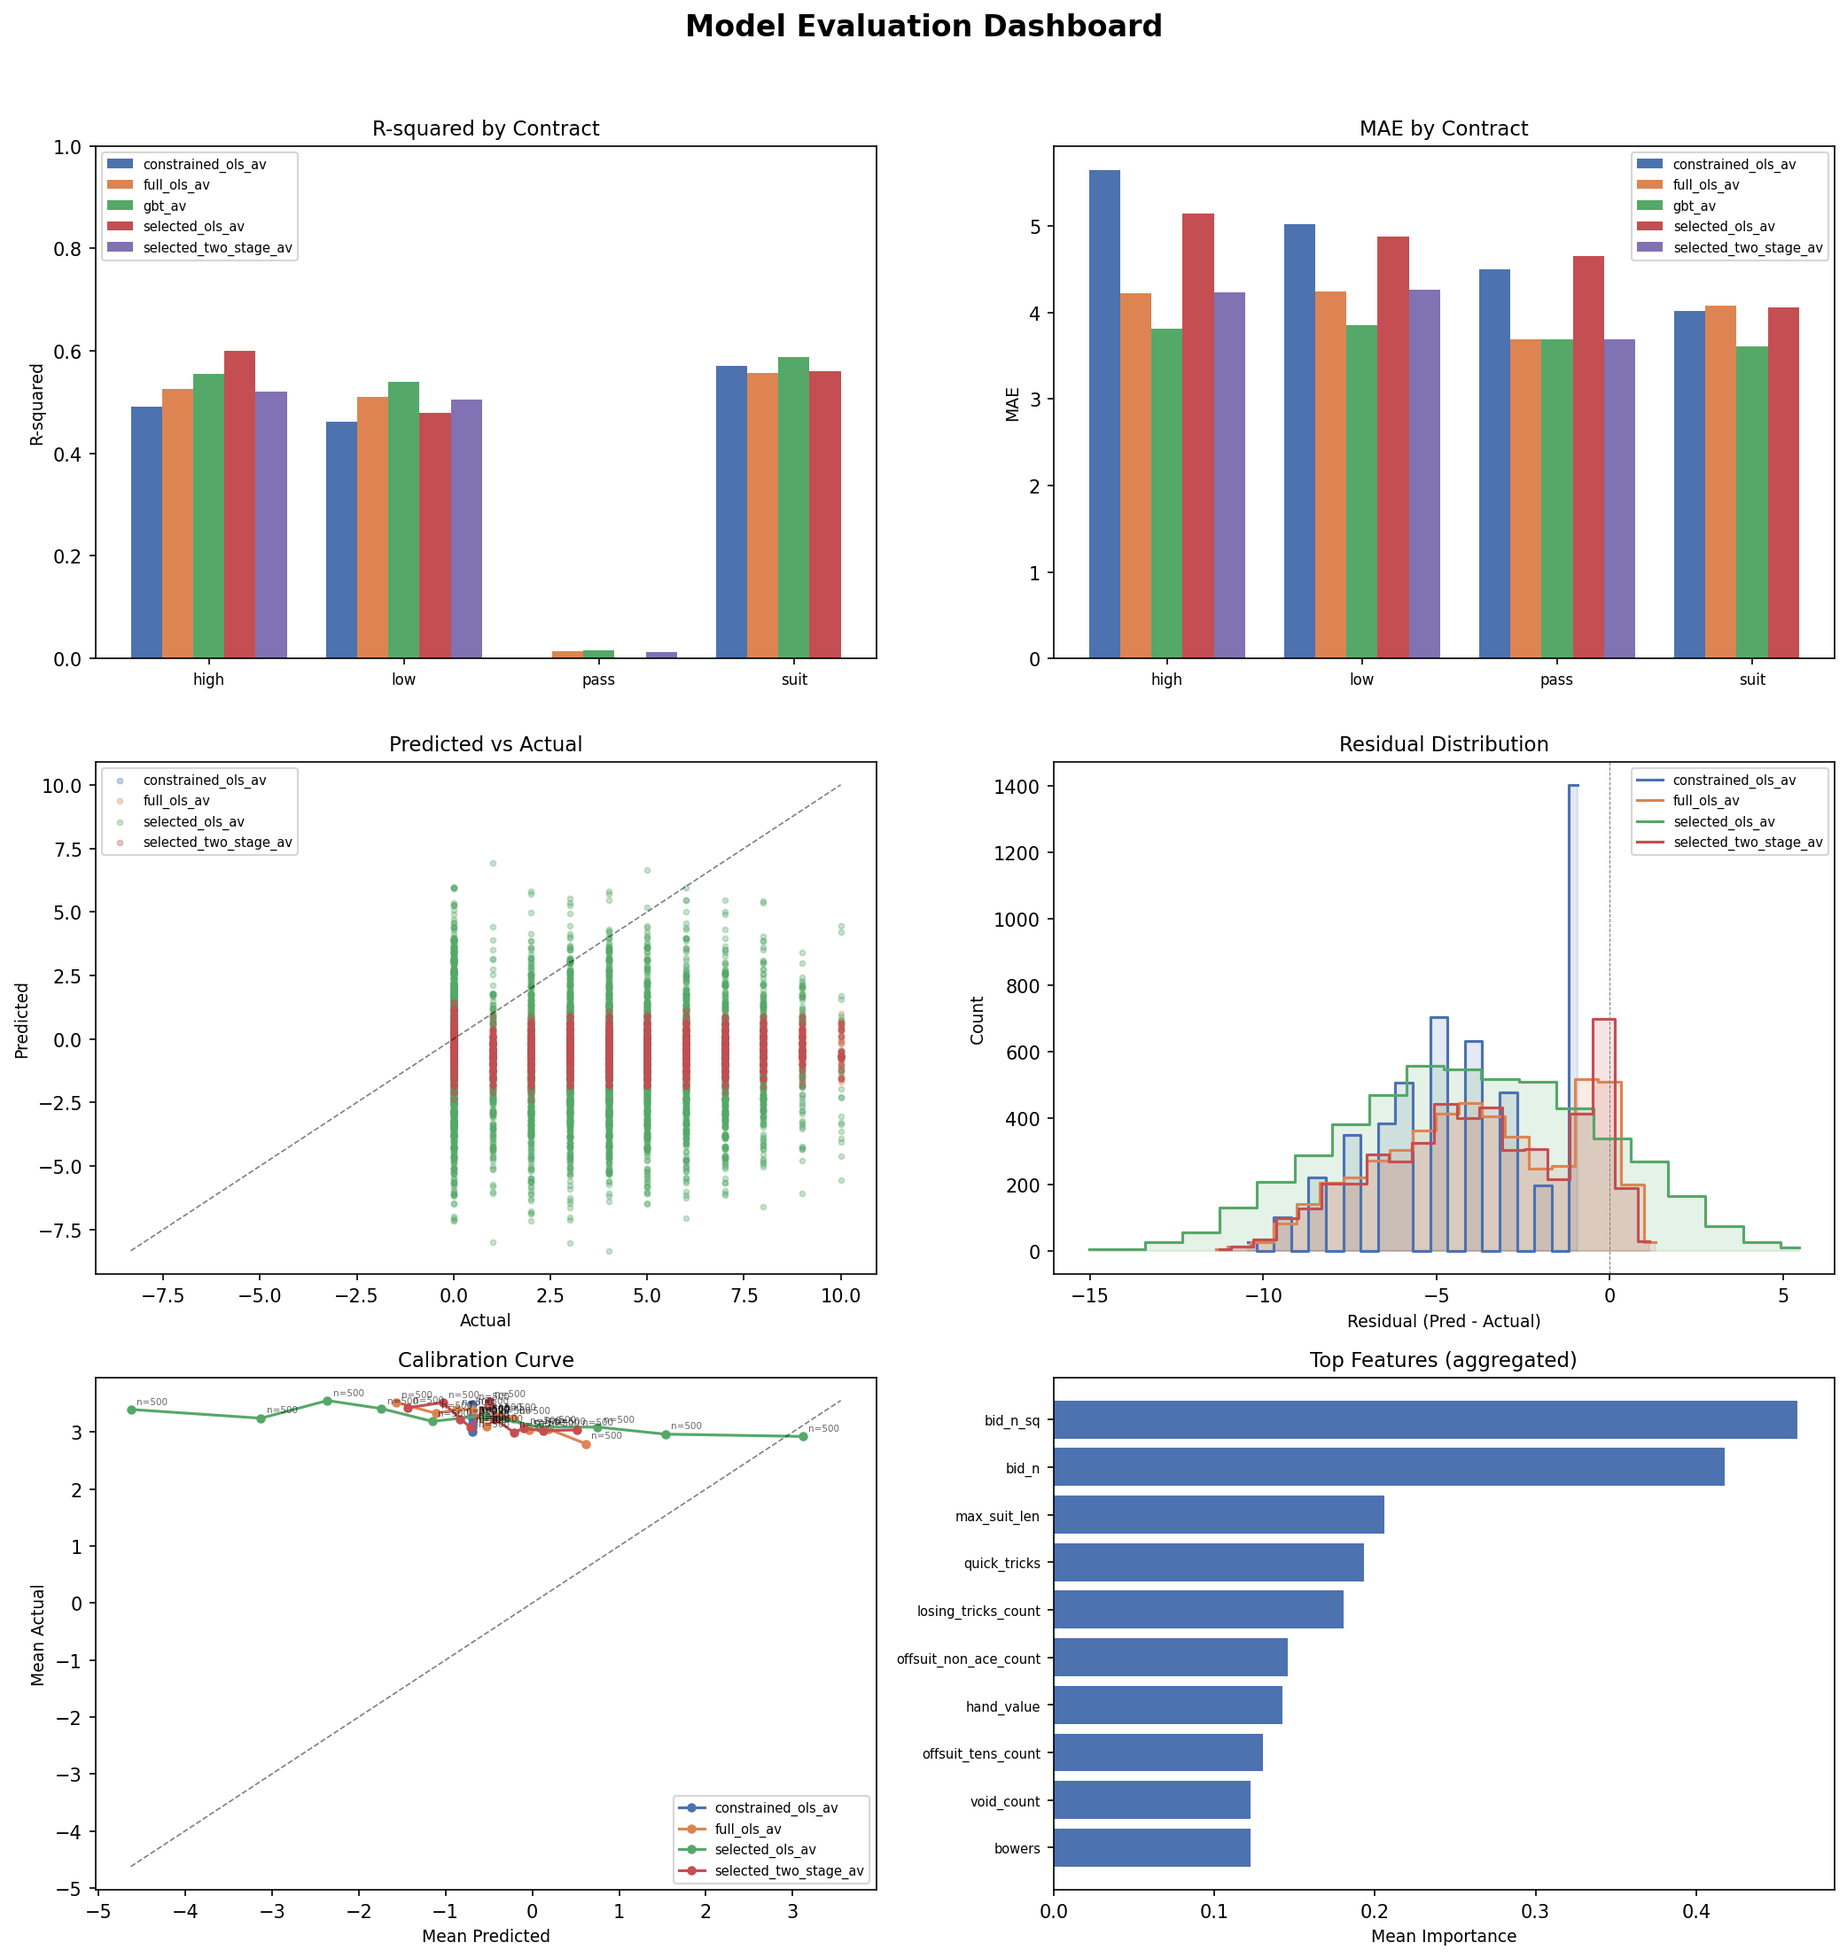
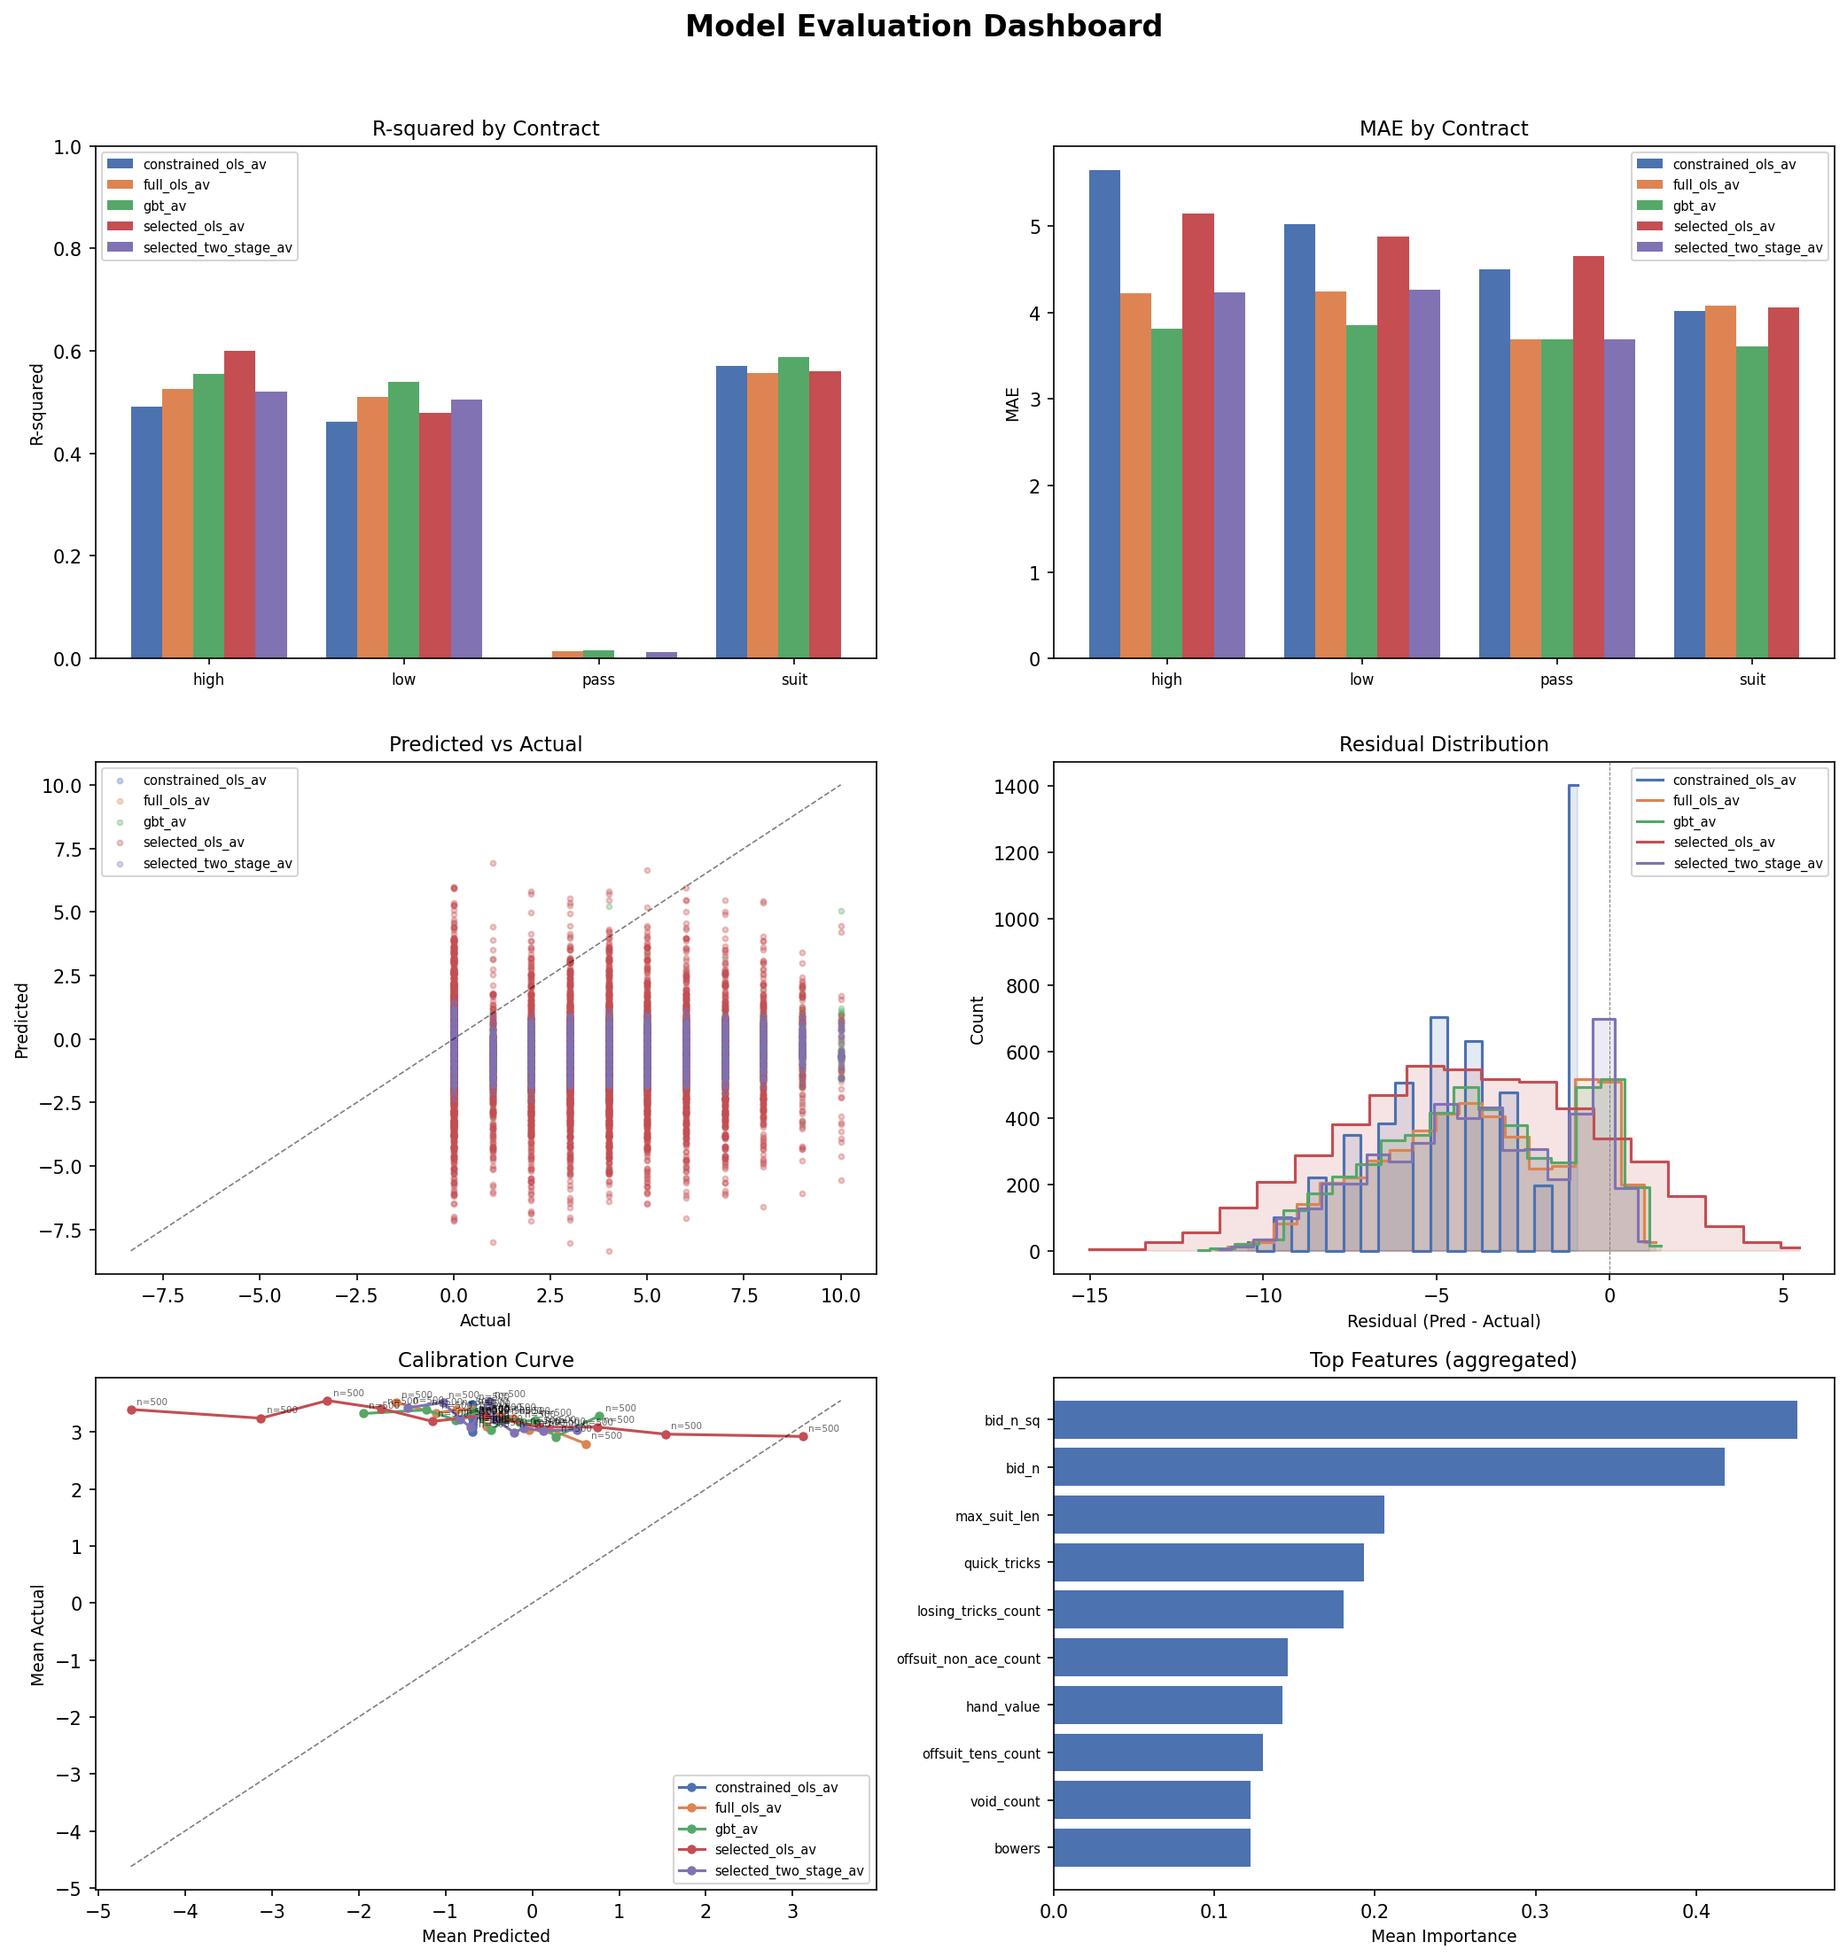
fix: regenerate R0-R2/FULL model-eval PNGs with GBT evidence
PR #980 added GBT rows to model-eval CSVs but the rendered PNGs
(Charts 16-18 + dashboard_model_eval) still showed only 4 OLS-family
models. Regenerate all 12 model-eval PNGs from the updated CSVs so
the reader-facing charts now include GBT.

Changes:
- 12 PNGs regenerated (4 charts × 3 rungs) now showing 5 models
- Manifests (00_manifest.md) updated with accurate byte sizes
- Evidence manifests (evidence_manifest.json) updated
- DS-3 governing plan: fix #TBD → #980, remove "Remaining gap"
- Fix pre-existing R0/R1 dashboard_model_eval size discrepancy

Charts 21/22 remain data-blocked (DS-2): action_value.parquet does
not exist for any rung. DS-1 (QUICK synthetic) unchanged.

diff --git a/plans/sessions/2026-03-19_model-eval-chart-regen.md b/plans/sessions/2026-03-19_model-eval-chart-regen.md
@@ -1,0 +1,117 @@
+# Model-Eval Chart Regeneration + DS-3 Closure
+
+**Date:** 2026-03-19
+**Branch:** `fix/model-eval-chart-regen-and-ds3`
+**Predecessor:** PR #980 (merged) — regenerated R0-R2/FULL model-eval CSVs with GBT rows
+
+## Goal
+
+Re-render the reader-facing model-eval PNGs (Charts 16-18 + dashboard_model_eval)
+for R0-R2/FULL so they reflect the GBT evidence now present in the underlying
+CSVs. Fix the governing-plan `#TBD` placeholder. Confirm Charts 21/22 remain
+data-blocked. Produce a clean single PR.
+
+## State Assessment
+
+| Item | Current State | Target State |
+|------|--------------|-------------|
+| R0-R2/FULL model-eval CSVs | ✅ Include `gbt_av` (5 models total) via PR #980 | No change needed |
+| R0-R2/FULL model-eval PNGs | ❌ STALE — rendered from pre-GBT CSVs (PR #881) | Regenerate from updated CSVs |
+| DS-3 governing plan text | Says `(PR #TBD)` | Fix to `(PR #980)` |
+| R0-R2/FULL manifests | Reflect CSV sizes from #980 | Update PNG sizes after regen |
+| Charts 21/22 (DS-2) | Data-blocked — no `action_value.parquet` exists | Confirm still blocked, no action |
+| DS-1 (QUICK synthetic) | Accepted policy | No change |
+| DS-4 (R3/FULL parity) | Resolved (PR #972) | No change |
+
+## Scope
+
+### In scope
+
+1. Regenerate 4 model-eval PNGs × 3 rungs (R0-R2/FULL):
+   - `full_chart_suite/pred_vs_actual.png`
+   - `full_chart_suite/residual_distribution.png`
+   - `full_chart_suite/calibration_curve.png`
+   - `dashboard_model_eval.png`
+2. Update `00_manifest.md` with new PNG byte sizes (3 rungs)
+3. Update `evidence_manifest.json` with new PNG byte sizes (3 rungs)
+4. Fix `#TBD` → `#980` in governing plan DS-3 section
+5. Confirm Charts 21/22 remain data-blocked (no implementation)
+
+### Out of scope
+
+- Regenerating non-model-eval charts (no CSV changes for those)
+- Charts 21/22 implementation (no parquet data available)
+- QUICK mode changes
+- R3/FULL changes (already at parity)
+- Full bundle regeneration
+- Report narrative rewrites
+
+## Approach: Targeted Chart Regeneration
+
+The `generate_rung_charts.py` CLI generates ALL charts in one pass. To avoid
+unnecessary churn in unrelated PNGs (matplotlib version differences could cause
+pixel-level changes), use a targeted Python script that calls only the 4
+model-eval chart functions.
+
+Each function reads from `chart_data/` CSVs and writes to `charts/`:
+- `generate_predictions_scatter(chart_data_dir, suite_dir)`
+- `generate_residuals_chart(chart_data_dir, suite_dir)`
+- `generate_calibration_curve(chart_data_dir, suite_dir)`
+- `generate_dashboard_model_eval(tables_dir, charts_dir, chart_data_dir)`
+
+Input directories per rung:
+- `tables_dir`: `docs/04_reports/arc_d_v2/<rung>/full/tables/`
+- `chart_data_dir`: `docs/04_reports/arc_d_v2/<rung>/full/chart_data/`
+- `suite_dir`: `docs/04_reports/arc_d_v2/<rung>/full/charts/full_chart_suite/`
+- `charts_dir`: `docs/04_reports/arc_d_v2/<rung>/full/charts/`
+
+## Charts 21/22 Feasibility Assessment
+
+**Result: DATA-BLOCKED — no action.**
+
+- `.joblib` models exist: ✅ (`gbt_{high,low,pass,suit}.joblib` for R0-R2)
+- `action_value.parquet` exists: ❌ (not present for any rung)
+- `generate_interpretability.py` requires both `.joblib` AND `action_value.parquet`
+- Parquet files live in `data/runs/` (gitignored, large runtime artifacts)
+- DS-2 remains accurately described as data-blocked
+
+## Validation Plan
+
+### Artifact checks
+- Verify regenerated PNGs differ from pre-regen versions (new models visible)
+- Verify manifest byte sizes match actual file sizes
+- Verify evidence_manifest.json matches
+
+### Automated tests
+- `uv run python -m pytest -q tests/unit/test_rung_charts.py`
+- `uv run python -m pytest -q tests/unit/test_rung_report.py`
+- `uv run python -m pytest -q tests/unit/test_bundle_hygiene.py`
+- `make check-quiet`
+
+## Outcome
+
+**PR:** #TBD
+
+### What shipped
+- 12 model-eval PNGs regenerated (Charts 16-18 + dashboard_model_eval × 3 rungs)
+- All PNGs now include GBT model alongside 4 OLS-family models (5 total)
+- 3 `00_manifest.md` + 3 `evidence_manifest.json` updated with accurate byte sizes
+- DS-3 `#TBD` → `#980` fix + removed "Remaining gap" about un-rendered PNGs
+- R0/R1 `dashboard_model_eval.png` pre-existing size discrepancy fixed
+
+### Items 1-4 assessment
+1. ✅ #980 verified on main, DS-3 truthfulness pass done
+2. ✅ Model-eval surfaces regenerated for R0-R2/FULL
+3. ✅ DS-3 fully resolved — no remaining gaps
+4. ❌ Charts 21/22 deferred — `action_value.parquet` does not exist for any rung (DS-2 unchanged)
+
+### Remaining degraded states
+- **DS-1:** QUICK synthetic outcome distributions (accepted policy — unchanged)
+- **DS-2:** Charts 21/22 data-blocked (no `action_value.parquet`) — unchanged
+
+### Validation
+- test_rung_charts: 56 passed
+- test_rung_report: 36 passed
+- test_bundle_hygiene: 30 passed, 4 skipped
+- `make check-quiet`: all passed
+- All 12 manifest + 12 evidence_manifest size entries verified vs actual files

diff --git a/docs/04_reports/arc_d_v2/r0/full/00_manifest.md b/docs/04_reports/arc_d_v2/r0/full/00_manifest.md
@@ -71,7 +71,7 @@
 |---|-------|------|------|--------|
 | 1 | Competitive Dashboard | `dashboard_competitive.png` | 208,797 bytes | present |
 | 2 | Health Dashboard | `dashboard_health.png` | 148,492 bytes | present |
-| 3 | Model Evaluation Dashboard | `dashboard_model_eval.png` | 108,426 bytes | present |
+| 3 | Model Evaluation Dashboard | `dashboard_model_eval.png` | 281,257 bytes | present |
 | 4 | Comparator Ranking Bars | `full_chart_suite/comparator_ranking_bars.png` | 25,614 bytes | present |
 | 5 | Tail Risk Panel | `full_chart_suite/tail_risk_panel.png` | 26,261 bytes | present |
 | 6 | H2H Delta by Contract | `full_chart_suite/delta_bars_by_contract.png` | 209,361 bytes | present |
@@ -84,9 +84,9 @@
 | 13 | Bid Level Distribution | `full_chart_suite/bid_level_distribution.png` | 33,579 bytes | present |
 | 14 | R-squared by Contract | `full_chart_suite/r2_by_contract.png` | 35,910 bytes | present |
 | 15 | MAE by Contract | `full_chart_suite/mae_by_contract.png` | 34,173 bytes | present |
-| 16 | Predicted vs Actual | `full_chart_suite/pred_vs_actual.png` | 79,478 bytes | present |
-| 17 | Residual Distribution | `full_chart_suite/residual_distribution.png` | 35,137 bytes | present |
-| 18 | Calibration Curve | `full_chart_suite/calibration_curve.png` | 45,733 bytes | present |
+| 16 | Predicted vs Actual | `full_chart_suite/pred_vs_actual.png` | 82,813 bytes | present |
+| 17 | Residual Distribution | `full_chart_suite/residual_distribution.png` | 36,482 bytes | present |
+| 18 | Calibration Curve | `full_chart_suite/calibration_curve.png` | 48,213 bytes | present |
 | 19 | Selection Path | `full_chart_suite/selection_path.png` | 99,004 bytes | present |
 | 20 | Feature Importance | `full_chart_suite/feature_importance.png` | 103,181 bytes | present |
 | 21 | Decision Agreement | `full_chart_suite/decision_agreement.png` | - | absent |

diff --git a/docs/04_reports/arc_d_v2/r1/full/00_manifest.md b/docs/04_reports/arc_d_v2/r1/full/00_manifest.md
@@ -71,7 +71,7 @@
 |---|-------|------|------|--------|
 | 1 | Competitive Dashboard | `dashboard_competitive.png` | 210,740 bytes | present |
 | 2 | Health Dashboard | `dashboard_health.png` | 148,556 bytes | present |
-| 3 | Model Evaluation Dashboard | `dashboard_model_eval.png` | 111,797 bytes | present |
+| 3 | Model Evaluation Dashboard | `dashboard_model_eval.png` | 295,349 bytes | present |
 | 4 | Comparator Ranking Bars | `full_chart_suite/comparator_ranking_bars.png` | 25,619 bytes | present |
 | 5 | Tail Risk Panel | `full_chart_suite/tail_risk_panel.png` | 26,262 bytes | present |
 | 6 | H2H Delta by Contract | `full_chart_suite/delta_bars_by_contract.png` | 208,507 bytes | present |
@@ -84,9 +84,9 @@
 | 13 | Bid Level Distribution | `full_chart_suite/bid_level_distribution.png` | 33,565 bytes | present |
 | 14 | R-squared by Contract | `full_chart_suite/r2_by_contract.png` | 35,934 bytes | present |
 | 15 | MAE by Contract | `full_chart_suite/mae_by_contract.png` | 36,745 bytes | present |
-| 16 | Predicted vs Actual | `full_chart_suite/pred_vs_actual.png` | 67,882 bytes | present |
-| 17 | Residual Distribution | `full_chart_suite/residual_distribution.png` | 37,714 bytes | present |
-| 18 | Calibration Curve | `full_chart_suite/calibration_curve.png` | 54,536 bytes | present |
+| 16 | Predicted vs Actual | `full_chart_suite/pred_vs_actual.png` | 78,766 bytes | present |
+| 17 | Residual Distribution | `full_chart_suite/residual_distribution.png` | 40,104 bytes | present |
+| 18 | Calibration Curve | `full_chart_suite/calibration_curve.png` | 58,230 bytes | present |
 | 19 | Selection Path | `full_chart_suite/selection_path.png` | 82,582 bytes | present |
 | 20 | Feature Importance | `full_chart_suite/feature_importance.png` | 104,763 bytes | present |
 | 21 | Decision Agreement | `full_chart_suite/decision_agreement.png` | - | absent |

diff --git a/docs/04_reports/arc_d_v2/r2/full/00_manifest.md b/docs/04_reports/arc_d_v2/r2/full/00_manifest.md
@@ -63,7 +63,7 @@
 |---|-------|------|------|--------|
 | 1 | Competitive Dashboard | `dashboard_competitive.png` | 299,338 bytes | present |
 | 2 | Health Dashboard | `dashboard_health.png` | 184,431 bytes | present |
-| 3 | Model Evaluation Dashboard | `dashboard_model_eval.png` | 266,026 bytes | present |
+| 3 | Model Evaluation Dashboard | `dashboard_model_eval.png` | 272,242 bytes | present |
 | 4 | Comparator Ranking Bars | `full_chart_suite/comparator_ranking_bars.png` | 42,247 bytes | present |
 | 5 | Tail Risk Panel | `full_chart_suite/tail_risk_panel.png` | 39,772 bytes | present |
 | 6 | H2H Delta by Contract | `full_chart_suite/delta_bars_by_contract.png` | 693,130 bytes | present |
@@ -76,9 +76,9 @@
 | 13 | Bid Level Distribution | `full_chart_suite/bid_level_distribution.png` | 44,495 bytes | present |
 | 14 | R-squared by Contract | `full_chart_suite/r2_by_contract.png` | 35,891 bytes | present |
 | 15 | MAE by Contract | `full_chart_suite/mae_by_contract.png` | 36,660 bytes | present |
-| 16 | Predicted vs Actual | `full_chart_suite/pred_vs_actual.png` | 67,896 bytes | present |
-| 17 | Residual Distribution | `full_chart_suite/residual_distribution.png` | 36,877 bytes | present |
-| 18 | Calibration Curve | `full_chart_suite/calibration_curve.png` | 51,404 bytes | present |
+| 16 | Predicted vs Actual | `full_chart_suite/pred_vs_actual.png` | 66,028 bytes | present |
+| 17 | Residual Distribution | `full_chart_suite/residual_distribution.png` | 37,014 bytes | present |
+| 18 | Calibration Curve | `full_chart_suite/calibration_curve.png` | 56,587 bytes | present |
 | 19 | Selection Path | `full_chart_suite/selection_path.png` | 80,965 bytes | present |
 | 20 | Feature Importance | `full_chart_suite/feature_importance.png` | 87,589 bytes | present |
 | 21 | Decision Agreement | `full_chart_suite/decision_agreement.png` | - | absent |

diff --git a/plans/arc_d_v2/reporting_refactor_full_plan.md b/plans/arc_d_v2/reporting_refactor_full_plan.md
@@ -1111,9 +1111,10 @@ degraded modes. They do not block the plan's COMPLETE WITH DEGRADED STATES statu
   This is a pre-existing data limitation (the `bid_n_sq` derived feature is not
   in the eval parquet schema), not specific to GBT. Suit/high/low contract
   model-eval would require parquet feature engineering upstream.
-- **Remaining gap:** Dashboard PNGs (Charts 16-18, dashboard_model_eval) for
-  R0-R2/FULL were not re-rendered from the updated CSVs. The GBT data is in the
-  CSVs but not yet surfaced in the chart/report reading experience.
+- **Chart regeneration (PR #TBD-charts):** Charts 16-18 (pred_vs_actual,
+  residual_distribution, calibration_curve) and dashboard_model_eval regenerated
+  for R0-R2/FULL from GBT-inclusive CSVs. All model-eval PNGs now reflect 5
+  models. Manifests and evidence manifests updated with new byte sizes.
 
 ~~**DS-4: R3/full bundle stale relative to R0-R2**~~ **RESOLVED (PR #972)**
 - R3/full Charts 10, 16-18 (seat_balance, pred_vs_actual, residual_distribution,
